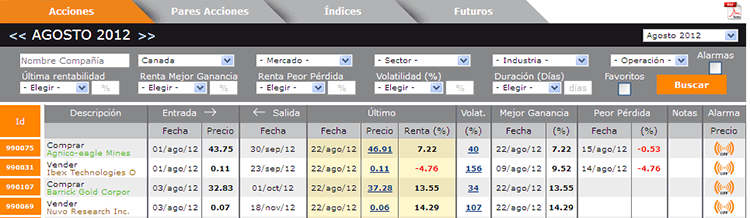
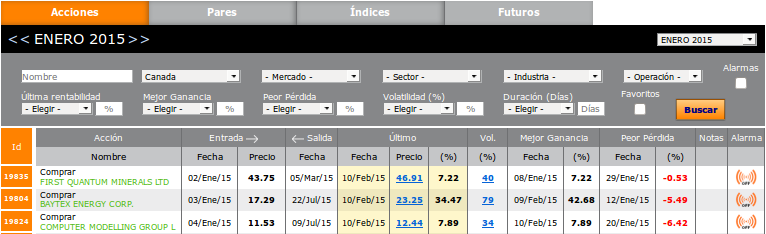
Changing Images and texts in Detailed Description page. Sections: Monitoring and Historical

diff --git a/src/app/services/detailed_description/detailed_description.tpl.html b/src/app/services/detailed_description/detailed_description.tpl.html
@@ -1169,12 +1169,12 @@ aciertos, reduciendo el drawdown y minimizando el tiempo de exposición al merca
                                 la operación habría que realizarla el día señalado hacia la hora de Cierre. Ejemplos de la tabla:
                                 <ul class="public-list-fourth-level list-left-first-level">
                                     <li>
-                                        El 1 agosto 2012 fue la Fecha de Entrada para la compra de acciones de
-                                        “Agnico Eagle Mines” cuya cotización al cierre de la sesión fue de 43,75 CAD.
+                                        El 2 enero 2015 fue la Fecha de Entrada para la compra de acciones de
+                                        “First Quantum Minerals” cuya cotización al cierre de la sesión fue de 43,75 CAD.
                                     </li>
                                     <li>
-                                        La fecha de Salida o cierre de la operación está prevista para el 30 septiembre 2012.
-                                        En esa fecha habrá que vender las acciones de “Agnico Eagle Mines”. Si el día 30
+                                        La fecha de Salida o cierre de la operación está prevista para el 5 marzo 2015.
+                                        En esa fecha habrá que vender las acciones de “First Quantum Minerals”. Si el día 5
                                         fuera festivo, la venta se adelantará al anterior día laboral hacia la hora de cierre.
                                     </li>
                                 </ul>
@@ -1208,8 +1208,8 @@ aciertos, reduciendo el drawdown y minimizando el tiempo de exposición al merca
                         </ul>
                     </li>
                     <li>
-                        Como ejemplo, la tabla recoge el último registro de la cotización de “Agnico Eagle Mines”
-                        correspondientes al 22 agosto 2012, con cierre 46,91 CAD que es hasta la fecha un rendimiento de 7,22 %.
+                        Como ejemplo, la tabla recoge el último registro de la cotización de “First Quantum Minerals”
+                        correspondientes al 10 febrero 2015, con cierre 46,91 CAD, que es hasta la fecha un rendimiento de 7,22 %.
                     </li>
                 </ul>
             </li>
@@ -1224,8 +1224,8 @@ aciertos, reduciendo el drawdown y minimizando el tiempo de exposición al merca
                     <li><strong>Rentabilidad</strong> (%), es el mejor rendimiento obtenido desde el inicio de la
                         estrategia.
                     </li>
-                    <li>Por ejemplo la tabla indica que la Mejor Ganancia para la operación en curso sobre “Agnico Eagle Mines”
-                        se obtuvo el 22 agosto con rentabilidad de 7,22%.
+                    <li>Por ejemplo la tabla indica que la Mejor Ganancia para la operación en curso sobre “First Quantum Minerals”
+                        se obtuvo el 8 enero con rentabilidad de 7,22%.
                     </li>
                 </ul>
             </li>
@@ -1237,8 +1237,8 @@ aciertos, reduciendo el drawdown y minimizando el tiempo de exposición al merca
                     <li><strong>Rentabilidad</strong> (%), es el peor rendimiento obtenido desde el inicio de la
                         estrategia.
                     </li>
-                    <li>Por ejemplo la tabla indica que la Peor Pérdida para la operación en curso sobre “Agnico Eagle Mines”
-                        se obtuvo el 15 agosto con renta de -0,53%.
+                    <li>Por ejemplo la tabla indica que la Peor Pérdida para la operación en curso sobre “First Quantum Minerals”
+                        se obtuvo el 29 enero con renta de -0,53%.
                     </li>
                 </ul>
             </li>
@@ -1358,6 +1358,9 @@ aciertos, reduciendo el drawdown y minimizando el tiempo de exposición al merca
                 del valor.
             </li>
             <li>
+                <strong>Mercado</strong> de cotización.
+            </li>
+            <li>
                 Columna <strong>Entrada</strong> muestra la información de la apertura de la estrategia recién
                 concluida:
                 <ol class="list-left-first-level" type="I">
@@ -1369,8 +1372,8 @@ aciertos, reduciendo el drawdown y minimizando el tiempo de exposición al merca
                     </li>
                     <li style="list-style-image: none !important;">
                         Ejemplo tabla línea 1ª: La operación de entrada de Vender -a corto-
-                        “Covenant Transportation” se inició el 14 septiembre 2012 con precio
-                        al final de la sesión de 4,91 USD.
+                        “Richelieu Hardware” se inició el 3 septiembre 2014 con precio
+                        al final de la sesión de 49,02 CAD.
                     </li>
                 </ol>
             </li>
@@ -1385,14 +1388,14 @@ aciertos, reduciendo el drawdown y minimizando el tiempo de exposición al merca
                         Precio al que se cerró la estrategia el día de la salida.
                     </li>
                     <li style="list-style-image: none !important;">
-                       Ejemplo tabla línea 1ª: La operación de salida de Comprar “Covenant Transportation”
-                        para liquidar la operación previa se realizó el 2 octubre 2012 con
-                        precio al final de la sesión de 4,52 USD.
+                       Ejemplo tabla línea 1ª: La operación de salida de Comprar “Richelieu Hardware”
+                        para liquidar la operación previa se realizó el 2 enero 2015 con
+                        precio al final de la sesión de 56,89 CAD.
                         <ul class="public-list-second-level list-left-first-level">
                             <li>
                                 <strong>Renta</strong> (%) muestra el valor definitivo del Rendimiento
                                 de la estrategia recién finalizada. Recordar que los datos usados por
-                                Market Observatoryno están ajustados por dividendos. Por ejemplo, si
+                                Market Observatory no están ajustados por dividendos. Por ejemplo, si
                                 durante el periodo en que la estrategia está en vigor se distribuye 1%
                                 de dividendos, entonces debe:
                                 <ul class="list-left-first-level public-list-third-level">
@@ -1418,8 +1421,8 @@ aciertos, reduciendo el drawdown y minimizando el tiempo de exposición al merca
                         <strong>(%)</strong> es la mejor rentabilidad obtenida desde el inicio de la estrategia.
                     </li>
                     <li style="list-style-image: none !important;">
-                       Ejemplo tabla línea 1ª: La mejor ganancia –transitoria- se obtuvo el 1 de octubre con un valor
-                        de 9,37 %
+                       Ejemplo tabla línea 1ª: La mejor ganancia –transitoria- se obtuvo el 14 noviembre con un valor
+                        de 16,89 %
                     </li>
                 </ol>
             </li>
@@ -1433,13 +1436,10 @@ aciertos, reduciendo el drawdown y minimizando el tiempo de exposición al merca
                         <strong>(%)</strong> es la peor rentabilidad obtenida desde el inicio de la estrategia.
                     </li>
                     <li style="list-style-image: none !important;">
-                       Ejemplo tabla línea 1ª: La peor pérdida –transitoria- se obtuvo el 17 de septiembre
-                        con un valor de 0,2 %, esto es un valor positivo indicando que no generó pérdidas
+                       Ejemplo tabla línea 1ª: La peor pérdida –transitoria- se obtuvo el 23 septiembre
+                        con un valor de -3,73 %. Esto es un valor negativo, indicando que generó un poco de pérdidas
                         durante el periodo.
                 </ol>
-            </li>
-            <li>
-                <strong>Mercado</strong> de cotización.
             </li>
             <li>
                 <strong>Notas</strong> recoge información sobre splits acaecidos mientras la estrategia
